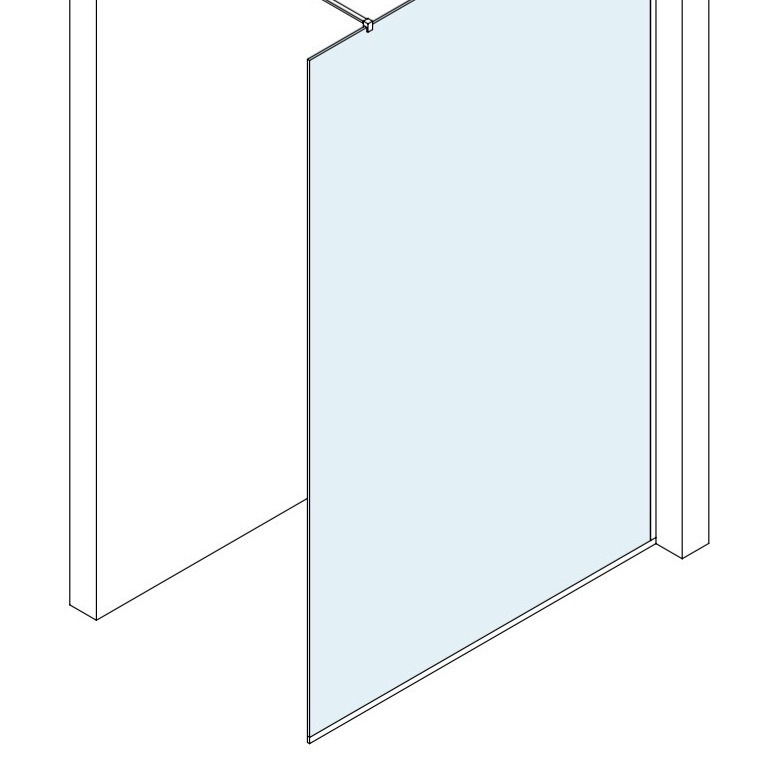
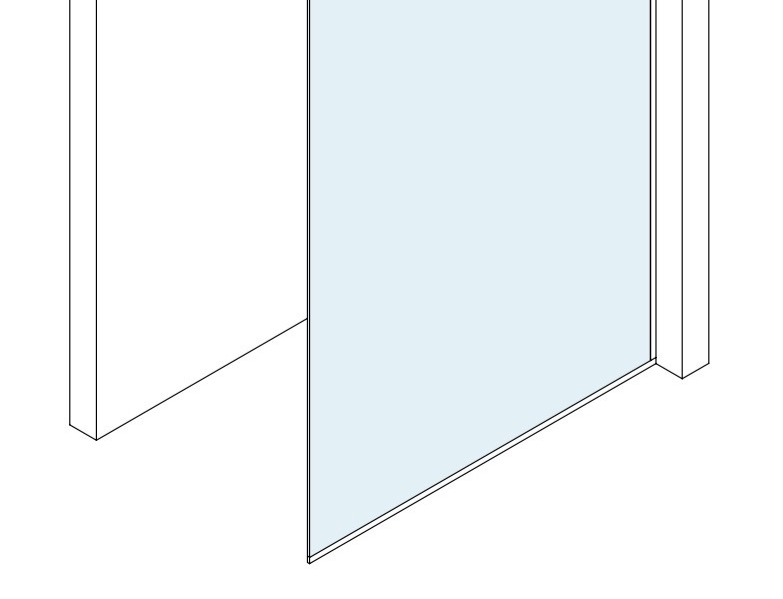
fix(cabine-dus): diagonal bar at 45° top + 50% top crop for tavan images

diff --git a/src/ShowerPreview2D.tsx b/src/ShowerPreview2D.tsx
@@ -125,13 +125,15 @@ export default function ShowerPreview2D({
             {/* Glass panel */}
             <GlassPanel x={x0 + (isPerete ? 2 : 0)} y={topY} wd={panelW} ht={panelH} />
 
-            {/* Bară stabilizatoare — ca profil metalic */}
+            {/* Bară stabilizatoare — diagonală 45° sus, lângă colț */}
             {hasBar && (
               <g>
-                <rect x={x0 - 6} y={barY - 4} width={panelW + 12} height="8" rx="3"
-                  fill="rgba(200,169,110,0.18)" stroke={gold} strokeWidth="1.2" />
-                <line x1={x0 - 4} y1={barY} x2={x0 + panelW + 4} y2={barY}
-                  stroke="rgba(255,255,255,0.08)" strokeWidth="2" />
+                <line x1={isPerete ? x0 + 6 : x0 + 2} y1={topY + panelH * 0.25}
+                      x2={isPerete ? x0 + 6 : x0 + 2} y2={topY + 12}
+                      stroke={gold} strokeWidth="4" strokeLinecap="round" />
+                <line x1={isPerete ? x0 + 6 : x0 + 2} y1={topY + panelH * 0.25}
+                      x2={isPerete ? x0 + 6 - panelW * 0.12 : x0 + 2 + panelW * 0.12} y2={topY + 14}
+                      stroke={gold} strokeWidth="2.5" strokeLinecap="round" opacity="0.7" />
               </g>
             )}
 
